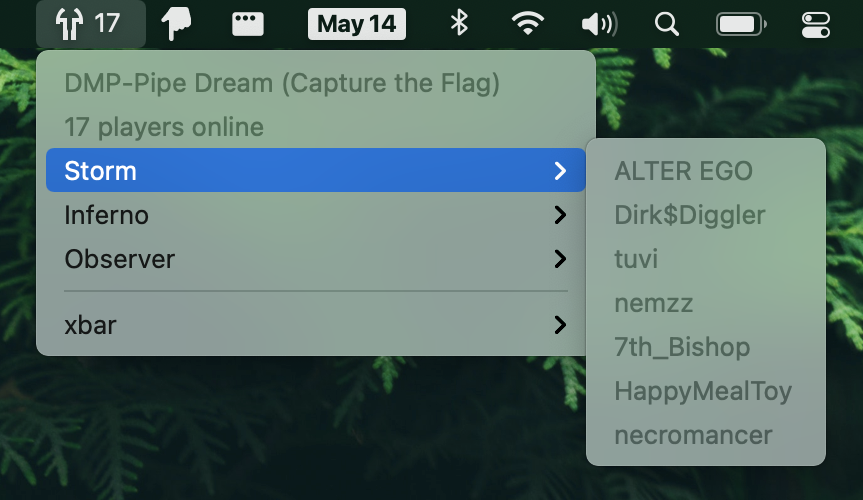
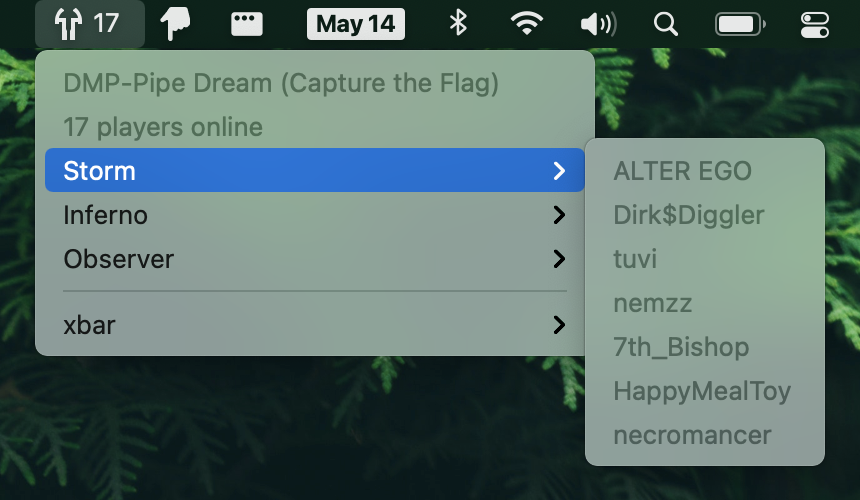
Shrink screenshot

diff --git a/README.md b/README.md
@@ -2,7 +2,9 @@
 
 macOS xbar plugin for showing Tribes 2 server status.
 
-![Screenshot](screenshot.png)
+<p align="center">
+<img src="screenshot.png" alt="Screenshot" width="430" height="250">
+</p>
 
 ## Install
 
